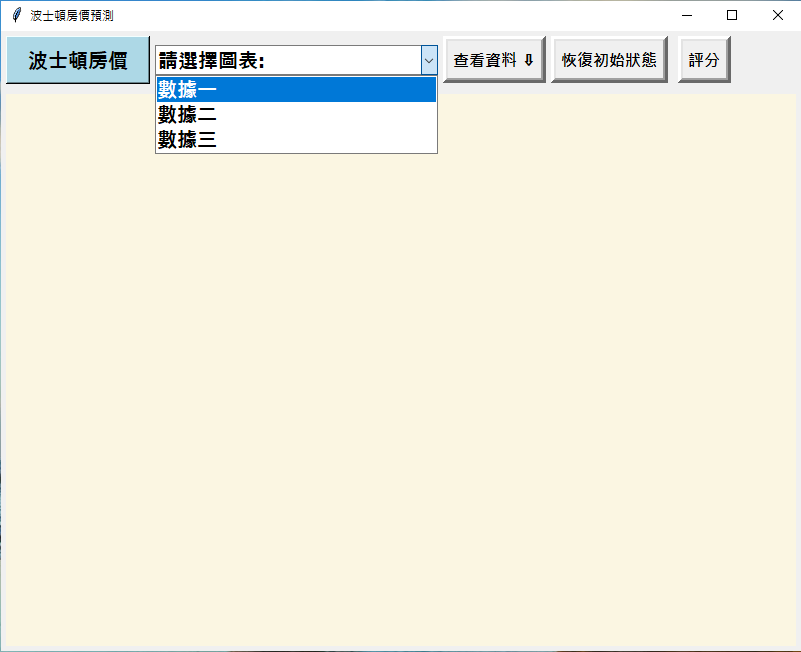
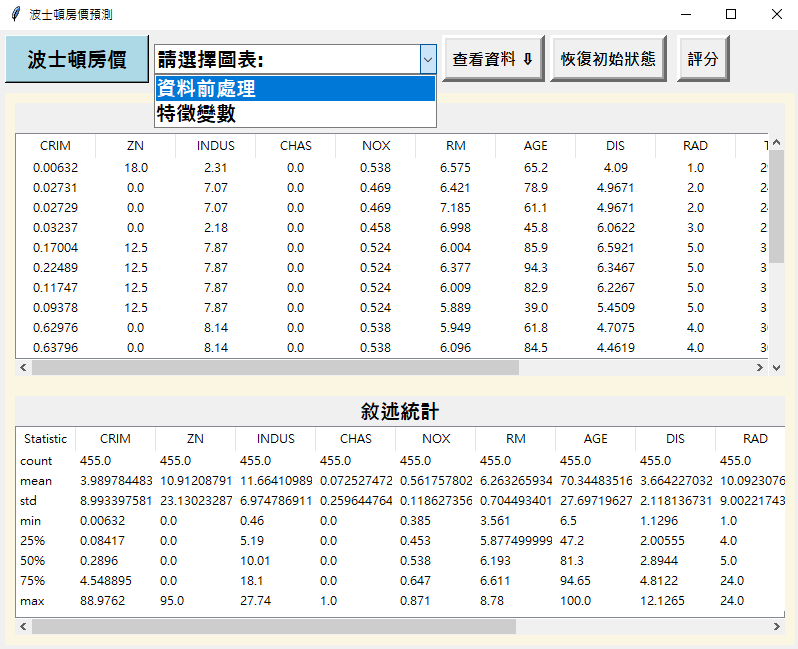
commit

diff --git a/類別/HW/波士頓房價預測_09_田恭豪/README.md b/類別/HW/波士頓房價預測_09_田恭豪/README.md
@@ -22,18 +22,17 @@
 ![picture_1](./images/window_1.png)
 ### 2.下拉式選單
 ![picture_1](./images/window_2.png)
-### 3.數據一
+### 3.資料前處理
 ![picture_1](./images/window_3.png)
-### 4.移除數據一按鈕
+### 4.特徵變數，閾值最初設為 0.4 得到的特徵變數
 ![picture_1](./images/window_4.png)
-### 5.數據二內容
+### 5.特徵變數，輸入閾值 0.51 得到特徵變數"RM"、"LSTAT"
 ![picture_1](./images/window_5.png)
-### 6.數據三內容
+### 6.閾值為 0.51 模型分數
 ![picture_1](./images/window_6.png)
-### 7.模型分數
+### 7.離開前提醒
 ![picture_1](./images/window_7.png)
-### 8.離開前提醒
-![picture_1](./images/window_8.png)
+
 ---
 
 ### 欄位名稱說明
